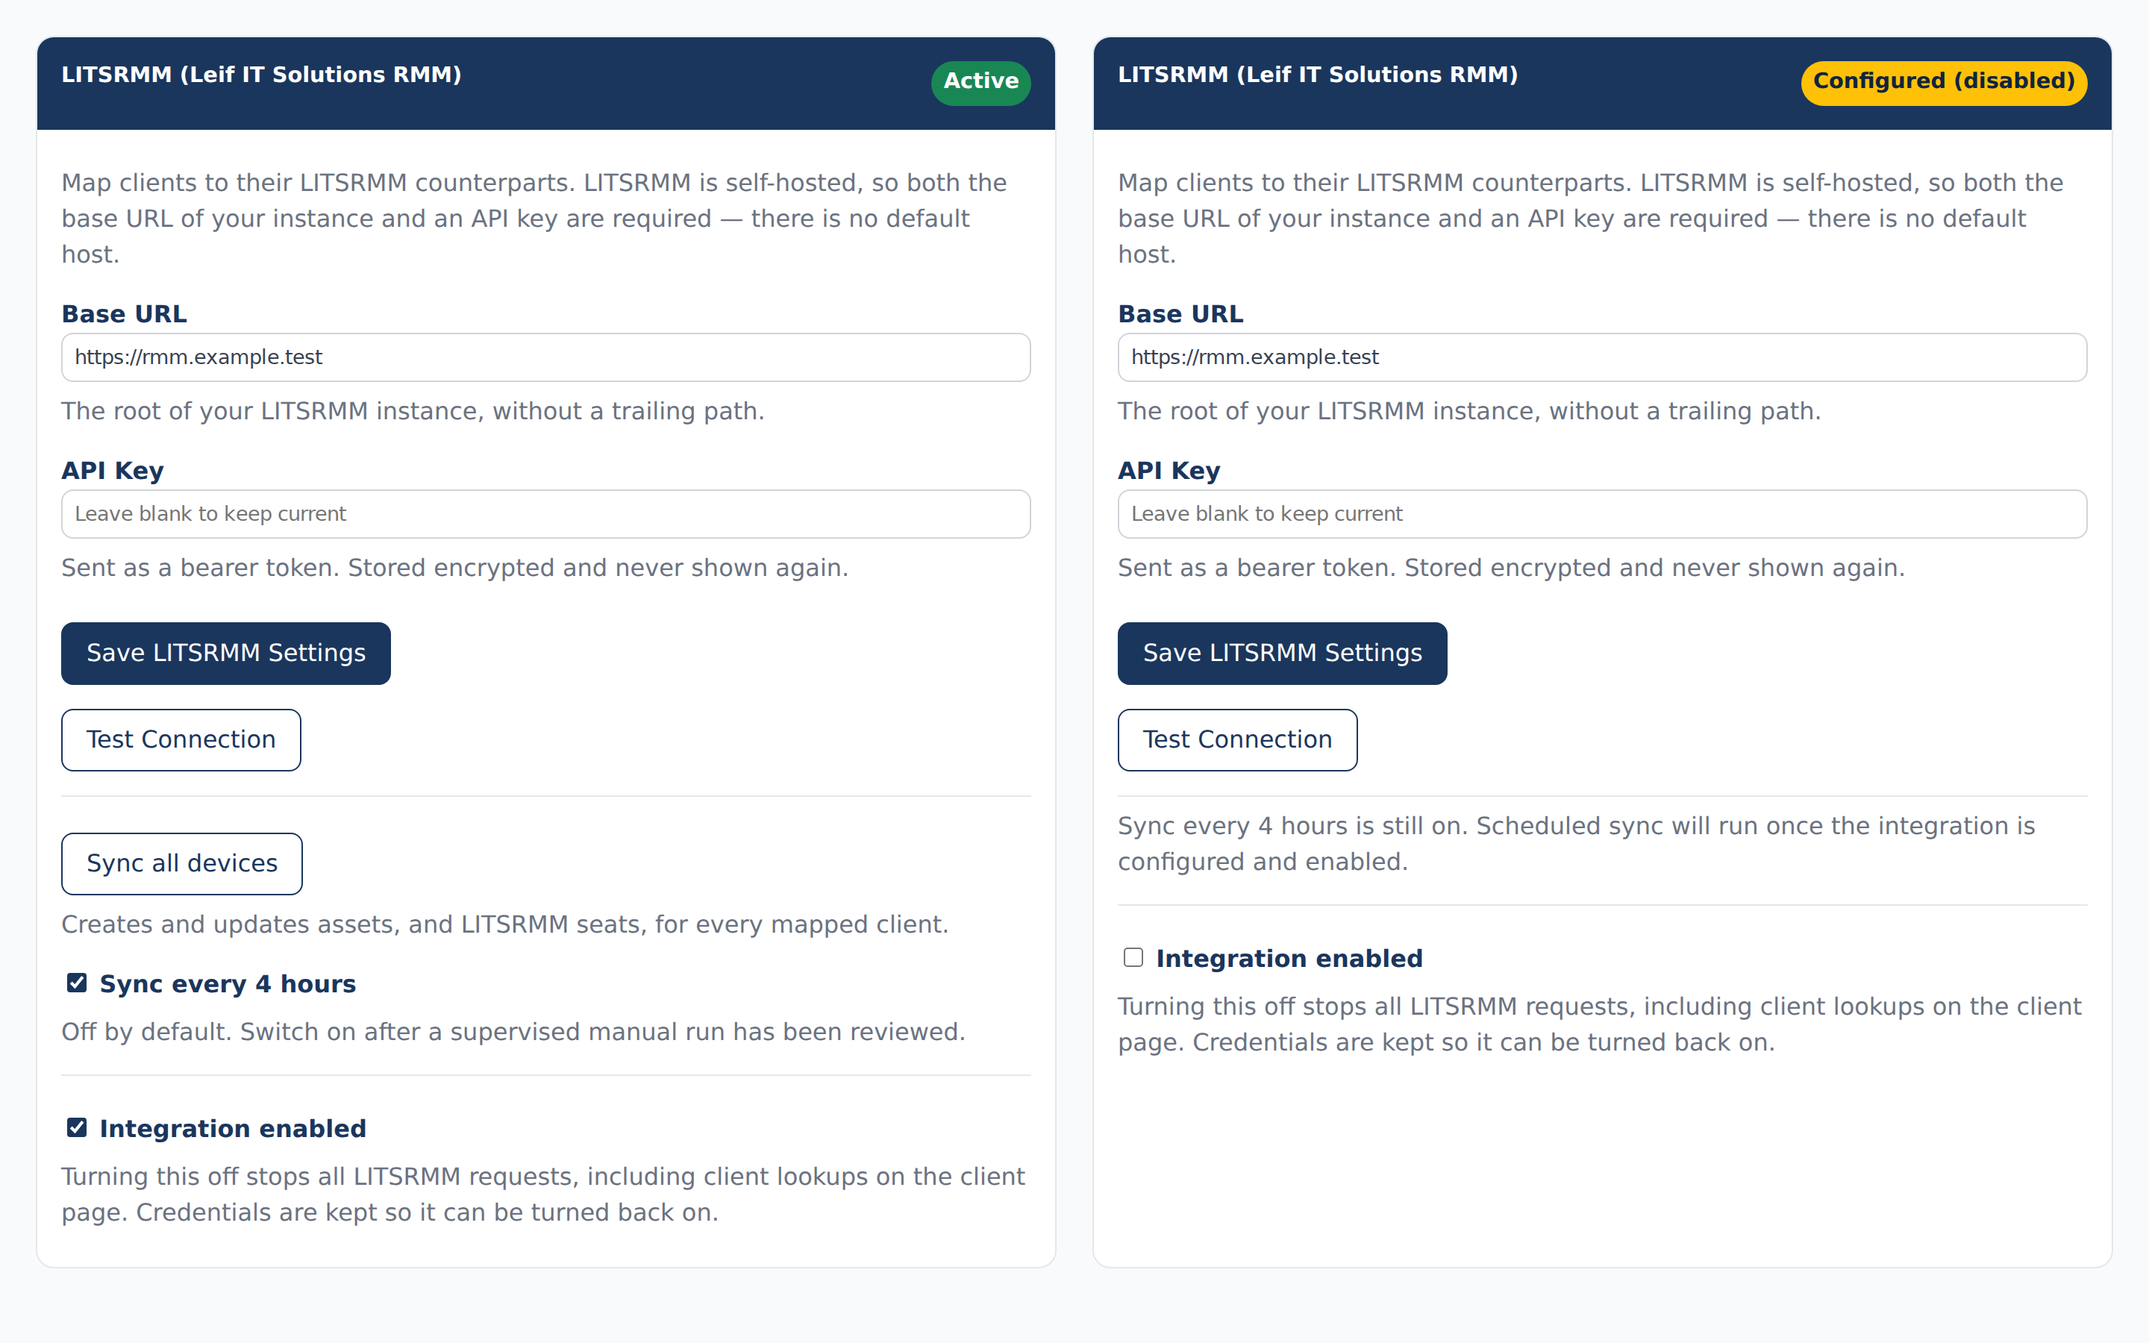
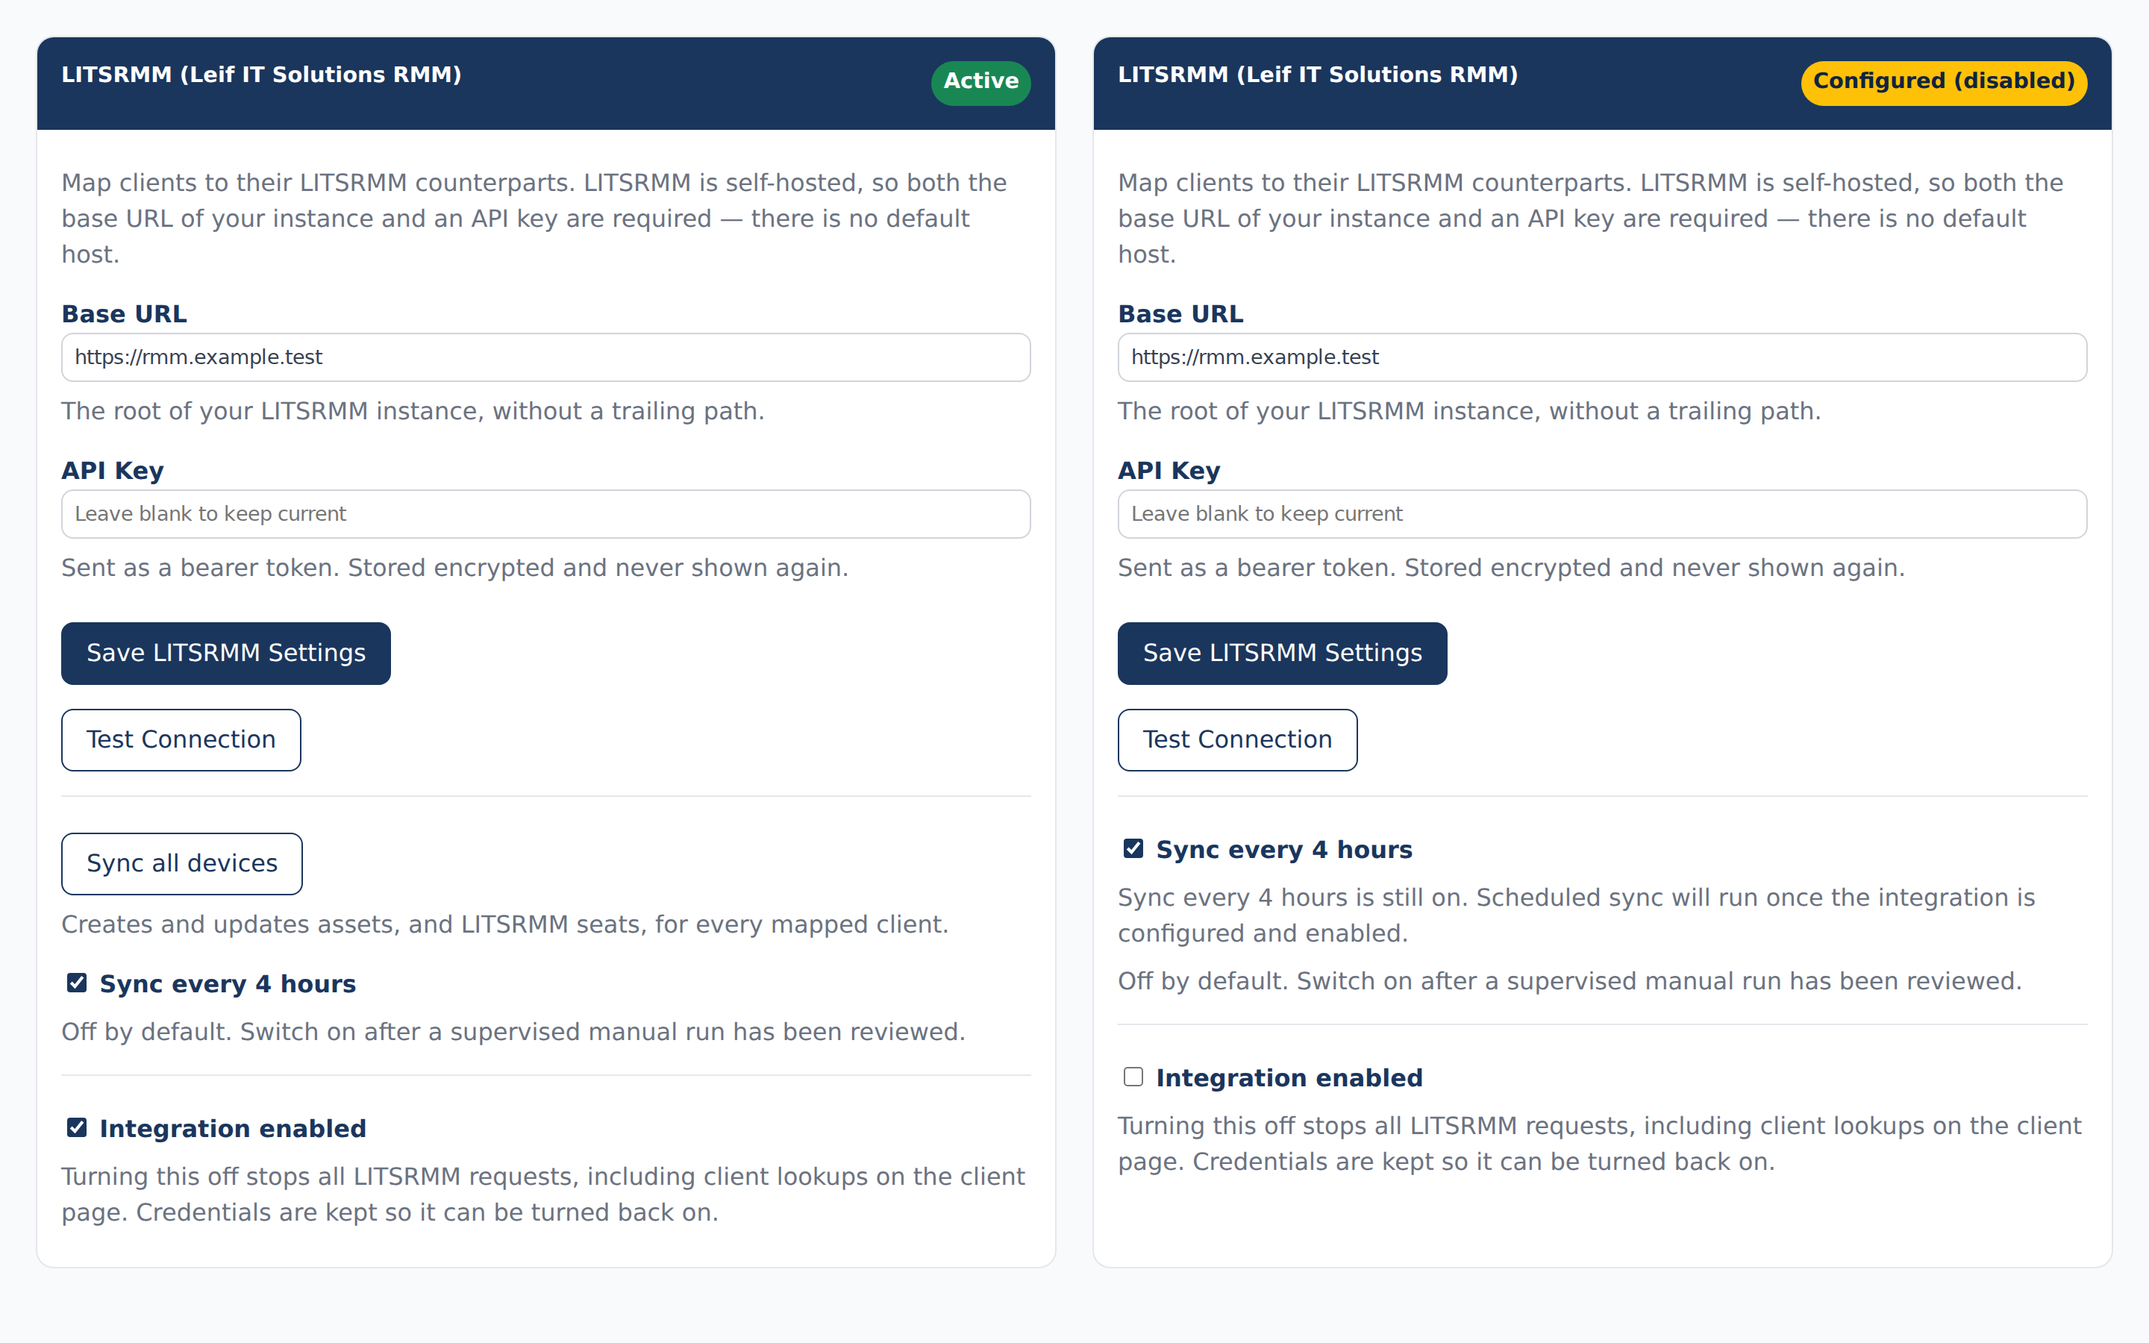
fix(litsrmm): H3 part 3a — get_asset and get_client name their missing ids, settings read isAvailable(), schedule switch shown while on (#7090 #7119 #7120)
A1 fails at BASE for litsrmm_device_id and default_contract_id; both pass with the description additions. A2 fails at BASE for the missing schedule form; A3 passes at BASE. M-inside, M-always, M-desc and M-desc-client fail their controls; M-avail survives the existing panel and sync tests. All selected test files and changed-PHP Pint pass. The mockup PNG was regenerated; visual readback is unavailable in this model runtime.

Claim-Seat: wren-vm102-h3a

Changed region(s): [[0.5, 0.5911, 0.9688, 0.8711], [0.9375, 0.8089, 0.9688, 0.84]]

diff --git a/design/mockups/settings/integrations-litsrmm.html b/design/mockups/settings/integrations-litsrmm.html
@@ -51,7 +51,9 @@ p { margin: var(--psa-spacing-sm) 0; }
 <label for="key-off">API Key</label><input id="key-off" type="password" placeholder="Leave blank to keep current">
 <p class="muted">Sent as a bearer token. Stored encrypted and never shown again.</p>
 <button class="primary" type="button">Save LITSRMM Settings</button><br><button type="button">Test Connection</button>
-<p class="section muted">Sync every 4 hours is still on. Scheduled sync will run once the integration is configured and enabled.</p>
+<div class="section"><label><input type="checkbox" checked> Sync every 4 hours</label>
+<p class="muted">Sync every 4 hours is still on. Scheduled sync will run once the integration is configured and enabled.</p>
+<p class="muted">Off by default. Switch on after a supervised manual run has been reviewed.</p></div>
 <div class="section"><label><input type="checkbox"> Integration enabled</label><p class="muted">Turning this off stops all LITSRMM requests, including client lookups on the client page. Credentials are kept so it can be turned back on.</p></div>
 </div></article>
 </main>

diff --git a/app/Services/Assistant/AssistantToolDefinitions.php b/app/Services/Assistant/AssistantToolDefinitions.php
@@ -352,7 +352,7 @@ class AssistantToolDefinitions
             ],
             [
                 'name' => 'get_client',
-                'description' => 'Get profile details for the current client, including free-form notes maintained by staff. Also returns the client\'s in-service device fleet as a flat assets array (id, hostname, type, is_active; capped at 50 rows) with assets_count carrying the uncapped active total — if assets_count exceeds the rows shown, list the remainder with find_assets: omit query, leave include_inactive unset, and start at offset=50 — this block and that list share one order (active devices by hostname, then id), so offset=50 resumes exactly where these rows stop — then keep paging while has_more is true. Also returns linked_ids: every PSA, foreign-key and integration id on the client (halo_id, halo_ninja_org_id, ninja_org_id, level_group_id, litsrmm_client_id, qbo_customer_id, mesh_customer_id, cipp_tenant_domain, cipp_sync_group_id, stripe_customer_id, huntress_organization_id, servosity_company_id, controld_org_id, zorus_customer_id, appriver_customer_id, printix_tenant_id, tactical_site_id, comet_group_id, legacy unifi_site_id/unifi_host_id, autoelevate_company_id, primary_tech_id, reseller_id, site_notes_updated_by, credentials_updated_by), plus unifi_sites (the live UniFi site mappings) and powerdmarc_domain_ids. Check linked_ids before concluding a client has no account in an integration. A null in linked_ids means "not mapped" (the column is empty), never "unknown" — every key is always present.',
+                'description' => 'Get profile details for the current client, including free-form notes maintained by staff. Also returns the client\'s in-service device fleet as a flat assets array (id, hostname, type, is_active; capped at 50 rows) with assets_count carrying the uncapped active total — if assets_count exceeds the rows shown, list the remainder with find_assets: omit query, leave include_inactive unset, and start at offset=50 — this block and that list share one order (active devices by hostname, then id), so offset=50 resumes exactly where these rows stop — then keep paging while has_more is true. Also returns linked_ids: every PSA, foreign-key and integration id on the client (halo_id, halo_ninja_org_id, ninja_org_id, level_group_id, litsrmm_client_id, qbo_customer_id, mesh_customer_id, cipp_tenant_domain, cipp_sync_group_id, stripe_customer_id, huntress_organization_id, servosity_company_id, controld_org_id, zorus_customer_id, appriver_customer_id, printix_tenant_id, tactical_site_id, comet_group_id, legacy unifi_site_id/unifi_host_id, autoelevate_company_id, default_contract_id, primary_tech_id, reseller_id, site_notes_updated_by, credentials_updated_by), plus unifi_sites (the live UniFi site mappings) and powerdmarc_domain_ids. Check linked_ids before concluding a client has no account in an integration. A null in linked_ids means "not mapped" (the column is empty), never "unknown" — every key is always present.',
                 'input_schema' => [
                     'type' => 'object',
                     'properties' => (object) [],
@@ -391,7 +391,7 @@ class AssistantToolDefinitions
             ],
             [
                 'name' => 'get_asset',
-                'description' => 'Look up a device (asset) at this client by id or hostname. Returns only ACTIVE (in-service) devices by default — a deactivated device is reported as "not found" unless you set include_inactive. Retired (soft-deleted) assets are excluded unless you set include_retired: true, which resolves a retired device whatever its is_active value (include_retired and include_inactive are independent) and adds is_retired (bool), retired_at (ISO-8601, or null for a live device) and restorable (bool: true only for a retired row that can be brought back; false for a live device and for a merge tombstone, a retired row merged into another asset, whose survivor is linked_ids.merged_into_asset_id) to the response. By hostname, a non-retired row, active or deactivated, always takes precedence over a retired row carrying the same hostname; a deactivated one is still reported as not found unless include_inactive is set. Returns hardware, OS, warranty, RMM IDs, and free-form notes, plus a related block (owning client stub, assigned users as id+name stubs, tickets_count, and the 5 most recent linked tickets as stubs); pass expand: ["tickets"] for up to 20 fuller linked-ticket rows. Also returns linked_ids: every PSA, foreign-key and integration id on the device (halo_id, client_id, ninja_id, level_id, tactical_asset_id, controld_device_id, zorus_endpoint_id, m365_device_id, screenconnect_session_id, comet_device_id, servosity_dr_backup_id, autoelevate_computer_id, merged_into_asset_id), plus tactical_agent_id (the Tactical vendor agent id; tactical_asset_id is only a local row key) and user_person_ids. Check linked_ids before concluding a device is not enrolled in an integration. A null in linked_ids means "not mapped" (the column is empty), never "unknown" — every key is always present.',
+                'description' => 'Look up a device (asset) at this client by id or hostname. Returns only ACTIVE (in-service) devices by default — a deactivated device is reported as "not found" unless you set include_inactive. Retired (soft-deleted) assets are excluded unless you set include_retired: true, which resolves a retired device whatever its is_active value (include_retired and include_inactive are independent) and adds is_retired (bool), retired_at (ISO-8601, or null for a live device) and restorable (bool: true only for a retired row that can be brought back; false for a live device and for a merge tombstone, a retired row merged into another asset, whose survivor is linked_ids.merged_into_asset_id) to the response. By hostname, a non-retired row, active or deactivated, always takes precedence over a retired row carrying the same hostname; a deactivated one is still reported as not found unless include_inactive is set. Returns hardware, OS, warranty, RMM IDs, and free-form notes, plus a related block (owning client stub, assigned users as id+name stubs, tickets_count, and the 5 most recent linked tickets as stubs); pass expand: ["tickets"] for up to 20 fuller linked-ticket rows. Also returns linked_ids: every PSA, foreign-key and integration id on the device (halo_id, client_id, ninja_id, level_id, litsrmm_device_id, tactical_asset_id, controld_device_id, zorus_endpoint_id, m365_device_id, screenconnect_session_id, comet_device_id, servosity_dr_backup_id, autoelevate_computer_id, merged_into_asset_id), plus tactical_agent_id (the Tactical vendor agent id; tactical_asset_id is only a local row key) and user_person_ids. Check linked_ids before concluding a device is not enrolled in an integration. A null in linked_ids means "not mapped" (the column is empty), never "unknown" — every key is always present.',
                 'input_schema' => [
                     'type' => 'object',
                     'properties' => [

diff --git a/resources/views/settings/integrations.blade.php b/resources/views/settings/integrations.blade.php
@@ -897,7 +897,7 @@
                 </div>
                 <div id="test-result-litsrmm" class="mt-3" style="display: none;"></div>
 
-                @if($litsrmmConfigured && $litsrmmEnabled)
+                @if($litsrmmAvailable)
                 <div class="border-top pt-3 mt-3">
                     <form method="POST" action="{{ route('settings.integrations.litsrmm.sync-devices') }}">
                         @csrf
@@ -906,6 +906,11 @@
                         </button>
                         <div class="form-text">Creates and updates assets, and LITSRMM seats, for every mapped client.</div>
                     </form>
+                </div>
+                @endif
+
+                @if($litsrmmAvailable || $litsrmmScheduleEnabled)
+                <div class="border-top pt-3 mt-3">
                     <form method="POST" action="{{ route('settings.integrations.litsrmm.schedule') }}" class="mt-3">
                         @csrf
                         <div class="form-check form-switch">
@@ -913,13 +918,12 @@
                                    {{ $litsrmmScheduleEnabled ? 'checked' : '' }} onchange="this.form.submit()">
                             <label class="form-check-label" for="litsrmm_sync_schedule">Sync every 4 hours</label>
                         </div>
+                        @if($litsrmmScheduleEnabled && ! $litsrmmAvailable)
+                            <p class="text-muted small">Sync every 4 hours is still on. Scheduled sync will run once the integration is configured and enabled.</p>
+                        @endif
                         <div class="form-text">Off by default. Switch on after a supervised manual run has been reviewed.</div>
                     </form>
                 </div>
-                @endif
-
-                @if($litsrmmScheduleEnabled && (! $litsrmmConfigured || ! $litsrmmEnabled))
-                    <p class="text-muted small border-top pt-3 mt-3">Sync every 4 hours is still on. Scheduled sync will run once the integration is configured and enabled.</p>
                 @endif
 
                 @if($litsrmmConfigured)

diff --git a/app/Http/Controllers/Web/IntegrationsController.php b/app/Http/Controllers/Web/IntegrationsController.php
@@ -416,6 +416,7 @@ class IntegrationsController extends Controller
         $litsrmmBaseUrl = (string) (LitsrmmConfig::get('base_url') ?? '');
         $litsrmmConfigured = LitsrmmConfig::isConfigured();
         $litsrmmEnabled = LitsrmmConfig::isEnabled();
+        $litsrmmAvailable = LitsrmmConfig::isAvailable();
         $litsrmmScheduleEnabled = LitsrmmConfig::isScheduleEnabled();
         $litsrmmConnectedAt = $fmtTs(Setting::getValue('litsrmm_connected_at'));
         $meshEnabled = MeshConfig::isEnabled();
@@ -612,7 +613,7 @@ class IntegrationsController extends Controller
             'benjipaysPayOnline',
             'ninjaClientId', 'ninjaConnected', 'ninjaConnectedAt', 'ninjaEnabled',
             'levelHasApiKey', 'levelConnected', 'levelConnectedAt', 'levelWebhookSecret', 'levelHasInstallAccountToken', 'levelEnabled',
-            'litsrmmHasApiKey', 'litsrmmBaseUrl', 'litsrmmConfigured', 'litsrmmEnabled', 'litsrmmScheduleEnabled', 'litsrmmConnectedAt',
+            'litsrmmHasApiKey', 'litsrmmBaseUrl', 'litsrmmConfigured', 'litsrmmEnabled', 'litsrmmAvailable', 'litsrmmScheduleEnabled', 'litsrmmConnectedAt',
             'meshHasApiKey', 'meshKeyUnusable', 'meshBaseUrl', 'meshConnected', 'meshEnabled',
             'huntressConfigured', 'huntressConnected', 'huntressEnabled',
             'huntressWebhookSecretStored', 'huntressWebhookAccountId', 'huntressWebhooksEnabled',
@@ -2504,7 +2505,7 @@ class IntegrationsController extends Controller
 
         $message = ! $on
             ? 'LITSRMM scheduled device sync is off.'
-            : (\App\Support\LitsrmmConfig::isEnabled() && \App\Support\LitsrmmConfig::isConfigured()
+            : (\App\Support\LitsrmmConfig::isAvailable()
                 ? 'LITSRMM scheduled device sync is on and runs every 4 hours while the integration is configured and enabled.'
                 : 'LITSRMM scheduled device sync is on. It will run every 4 hours once the integration is configured and enabled.');
 

diff --git a/tests/Feature/Integrations/LitsrmmSettingsPanelTest.php b/tests/Feature/Integrations/LitsrmmSettingsPanelTest.php
@@ -108,6 +108,33 @@ class LitsrmmSettingsPanelTest extends TestCase
         }
     }
 
+    public function test_schedule_on_is_switchable_when_not_configured(): void
+    {
+        \Illuminate\Support\Facades\Http::preventStrayRequests();
+        Setting::setValue('litsrmm_base_url', '');
+        Setting::setValue('litsrmm_sync_schedule_enabled', '1');
+        $this->assertFalse(LitsrmmConfig::isConfigured());
+
+        $response = $this->actingAs($this->admin())->get(route('settings.integrations'))->assertOk();
+        $response->assertSee('action="'.route('settings.integrations.litsrmm.schedule').'"', false);
+        $document = new \DOMDocument;
+        @$document->loadHTML($response->getContent());
+        $xpath = new \DOMXPath($document);
+        $this->assertSame(1, $xpath->query('//form[@action="'.route('settings.integrations.litsrmm.schedule').'"]//input[@id="litsrmm_sync_schedule" and @checked]')->length);
+        $response->assertSee('Sync every 4 hours is still on. Scheduled sync will run once the integration is configured and enabled.');
+    }
+
+    public function test_schedule_off_has_no_form_when_not_configured(): void
+    {
+        \Illuminate\Support\Facades\Http::preventStrayRequests();
+        Setting::setValue('litsrmm_base_url', '');
+        Setting::setValue('litsrmm_sync_schedule_enabled', '0');
+        $this->assertFalse(LitsrmmConfig::isConfigured());
+
+        $this->actingAs($this->admin())->get(route('settings.integrations'))->assertOk()
+            ->assertDontSee(route('settings.integrations.litsrmm.schedule'));
+    }
+
     public static function l4CardStates(): array
     {
         return LitsrmmSyncControlsTest::l4ScheduleStates();

diff --git a/tests/Feature/Assistant/LinkedIdsContractTest.php b/tests/Feature/Assistant/LinkedIdsContractTest.php
@@ -5,6 +5,7 @@ namespace Tests\Feature\Assistant;
 use App\Models\Asset;
 use App\Models\Client;
 use App\Models\Ticket;
+use App\Services\Assistant\AssistantToolDefinitions;
 use App\Services\Assistant\AssistantToolExecutor;
 use App\Services\Assistant\LinkedIds;
 use Illuminate\Database\Schema\Blueprint;
@@ -31,6 +32,26 @@ class LinkedIdsContractTest extends TestCase
         'assets' => LinkedIds::ASSET_COLUMNS,
         'tickets' => LinkedIds::TICKET_COLUMNS,
     ];
+
+    public function test_get_asset_description_names_every_linked_id(): void
+    {
+        $tools = array_column(AssistantToolDefinitions::getTools(true), null, 'name');
+        $this->assertArrayHasKey('get_asset', $tools);
+        $this->assertNotEmpty(LinkedIds::ASSET_COLUMNS);
+        foreach (LinkedIds::ASSET_COLUMNS as $column) {
+            $this->assertMatchesRegularExpression('/\\b'.preg_quote($column, '/').'\\b/', $tools['get_asset']['description'], $column);
+        }
+    }
+
+    public function test_get_client_description_names_every_linked_id(): void
+    {
+        $tools = array_column(AssistantToolDefinitions::getTools(true), null, 'name');
+        $this->assertArrayHasKey('get_client', $tools);
+        $this->assertNotEmpty(LinkedIds::CLIENT_COLUMNS);
+        foreach (LinkedIds::CLIENT_COLUMNS as $column) {
+            $this->assertMatchesRegularExpression('/\\b'.preg_quote($column, '/').'\\b/', $tools['get_client']['description'], $column);
+        }
+    }
 
     /** The columns the contract governs, derived from the live schema. */
     private static function governedColumns(string $table): array
